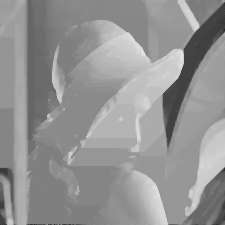
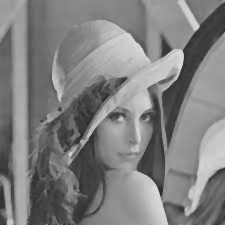
Fix: changes

diff --git a/classes/Filter.py b/classes/Filter.py
@@ -1,3 +1,4 @@
+import numpy as np
 from PIL import Image
 from classes.File import File
 
@@ -13,6 +14,11 @@ class Filter:
 
     def getChangedImage(self):
         return 0
+
+    def most_frequent(self, vetor):
+        unique, counts = np.unique(vetor, return_counts=True)
+        index = np.argmax(counts)
+        return unique[index]
 
     def covertImageToGrayscale(self):
         originalImageMap = self.changedImage.convertImageToMap()
@@ -56,24 +62,66 @@ class Filter:
         self.changedImage = self.covertImageToGrayscale()
         changedImageMap = self.changedImage.convertImageToMap()
 
-        for y in range(self.changedImage.getWidth()-1):
-            for x in range(self.changedImage.getHeight()-1):
+        for x in range(self.changedImage.getWidth()-1):
+            for y in range(self.changedImage.getHeight()-1):
 
-                i, j, frequente = 0, 0, 0
-                moda = list()
-                for i in range(3):
-                    for j in range(3):
-                        r, g, b, p = self.changedImage.image.getpixel((x+(i-1),  y+(j-1)))
-                        moda.append(r)
-                frequente = max(set(moda), key=moda.count)
+                lista = list()
+                r, g, b, p = self.changedImage.image.getpixel((y-1, x-1))
+                lista.append(r)
 
-                del moda
-                changedImageMap[x, y] = (int(frequente), int(frequente), int(frequente))
+                r, g, b, p = self.changedImage.image.getpixel((y - 1, x))
+                lista.append(r)
+
+                r, g, b, p = self.changedImage.image.getpixel((y - 1, x + 1))
+                lista.append(r)
+
+                r, g, b, p = self.changedImage.image.getpixel((y, x - 1))
+                lista.append(r)
+
+                r, g, b, p = self.changedImage.image.getpixel((y, x))
+                lista.append(r)
+
+                r, g, b, p = self.changedImage.image.getpixel((y, x + 1))
+                lista.append(r)
+
+                r, g, b, p = self.changedImage.image.getpixel((y + 1, x - 1))
+                lista.append(r)
+
+                r, g, b, p = self.changedImage.image.getpixel((y + 1, x))
+                lista.append(r)
+
+                r, g, b, p = self.changedImage.image.getpixel((y + 1, x + 1))
+                lista.append(r)
+
+                changedImageMap[y-1, x-1] = (self.most_frequent(lista), self.most_frequent(lista), self.most_frequent(lista))
+                del lista
 
         self.changedImage.image.save("attachment/moda." + self.originalImage.getExtencial(),
                                      format=self.originalImage.image.format)
         self.changedImage.setFile("attachment/moda." + self.originalImage.getExtencial())
         return self.changedImage
+        # self.changedImage = self.covertImageToGrayscale()
+        # changedImageMap = self.changedImage.convertImageToMap()
+        #
+        # for y in range(1, self.changedImage.getWidth()-1):
+        #     for x in range(1, self.changedImage.getHeight()-1):
+        #
+        #         i, j, frequente = 1, 1, 0
+        #         moda = list()
+        #         for i in range(3):
+        #             for j in range(3):
+        #                 r, g, b, p = changedImageMap[(x+(i-1),  y+(j-1))]
+        #                 moda.append(int(r))
+        #
+        #         frequente = max(set(moda))
+        #         if frequente < 250:
+        #             print(frequente)
+        #         changedImageMap[x, y] = (frequente, frequente, frequente)
+        #
+        # self.changedImage.image.save("attachment/moda." + self.originalImage.getExtencial(),
+        #                              format=self.originalImage.image.format)
+        # self.changedImage.setFile("attachment/moda." + self.originalImage.getExtencial())
+        # return self.changedImage
 
     def covertImageToMediana(self):
         self.changedImage = self.covertImageToGrayscale()
@@ -82,7 +130,7 @@ class Filter:
         for y in range(self.changedImage.getWidth()-1):
             for x in range(self.changedImage.getHeight()-1):
 
-                i, j, frequente = 0, 0, 0
+                i, j = 1, 1
                 lista = list()
                 for i in range(3):
                     for j in range(3):
@@ -90,7 +138,7 @@ class Filter:
                         lista.append(int(r))
 
                 lista.sort()
-                changedImageMap[x, y] = (lista[5], lista[5], lista[5])
+                changedImageMap[x, y] = (lista[4], lista[4], lista[4])
                 del lista
 
         self.changedImage.image.save("attachment/mediana." + self.originalImage.getExtencial(),
@@ -106,14 +154,14 @@ class Filter:
                 [2, 4, 2],
                 [1, 2, 1]]
 
-        for y in range(self.changedImage.getWidth()-1):
-            for x in range(self.changedImage.getHeight()-1):
+        for y in range(1, self.changedImage.getWidth()-1):
+            for x in range(1, self.changedImage.getHeight()-1):
 
                 i, j, z = 0, 0, 0
                 for i in range(3):
                     for j in range(3):
                         r, g, b, p = self.changedImage.image.getpixel((x+(i-1),  y+(j-1)))
-                        z = z + r * mask[i][j]
+                        z += r * mask[i][j]
 
                 changedImageMap[x, y] = (int(z/16), int(z/16), int(z/16))
 

diff --git a/main.py b/main.py
@@ -20,7 +20,7 @@ changed = [
 menu_def = [
     ['&Arquivo', ['Abrir imagem', '&Salvar imagem::savekey', '---', '!&Sobre', '&Sair', ]],
     ['Transformações Geométricas', ['Transladar', 'Rotacionar', 'Espelhar', 'Aumentar', 'Diminuir']],
-    ['Filtros', ['Grayscale', 'Passa Baixa', 'Passa Alta', 'Threshold']],
+    ['Filtros', ['Grayscale', 'Passa Baixa', ['Média', 'Mediana', 'Moda', 'Gauss', 'Passa Baixa'], 'Passa Alta', 'Threshold']],
     ['Morfologia Matemática', ['Dilatação', 'Erosão', 'Abertura', 'Fechamento']],
     ['Extração de Caracteristicas', ['---', '!&DESAFIO', '---']]
 ]
@@ -62,16 +62,16 @@ while True:
         window['-BT_MEDIANA-'].update(visible=True)
         window['-BT_MODA-'].update(visible=True)
         window['-BT_GAUSS-'].update(visible=True)
-    elif event in ('-BT_MEDIA-'):
+    elif event in ('-BT_MEDIA-', 'Média'):
         changedImage = filters.covertImageToMedia()
         window["-CHANGED_IMAGE-"].update(changedImage.getFile())
-    elif event in ('-BT_MODA-'):
+    elif event in ('-BT_MODA-', 'Moda'):
         changedImage = filters.covertImageToModa()
         window["-CHANGED_IMAGE-"].update(changedImage.getFile())
-    elif event in ('-BT_MEDIANA-'):
+    elif event in ('-BT_MEDIANA-', 'Mediana'):
         changedImage = filters.covertImageToMediana()
         window["-CHANGED_IMAGE-"].update(changedImage.getFile())
-    elif event in ('-BT_GAUSS-'):
+    elif event in ('-BT_GAUSS-', 'Gauss'):
         changedImage = filters.covertImageToGlauss()
         window["-CHANGED_IMAGE-"].update(changedImage.getFile())
 
